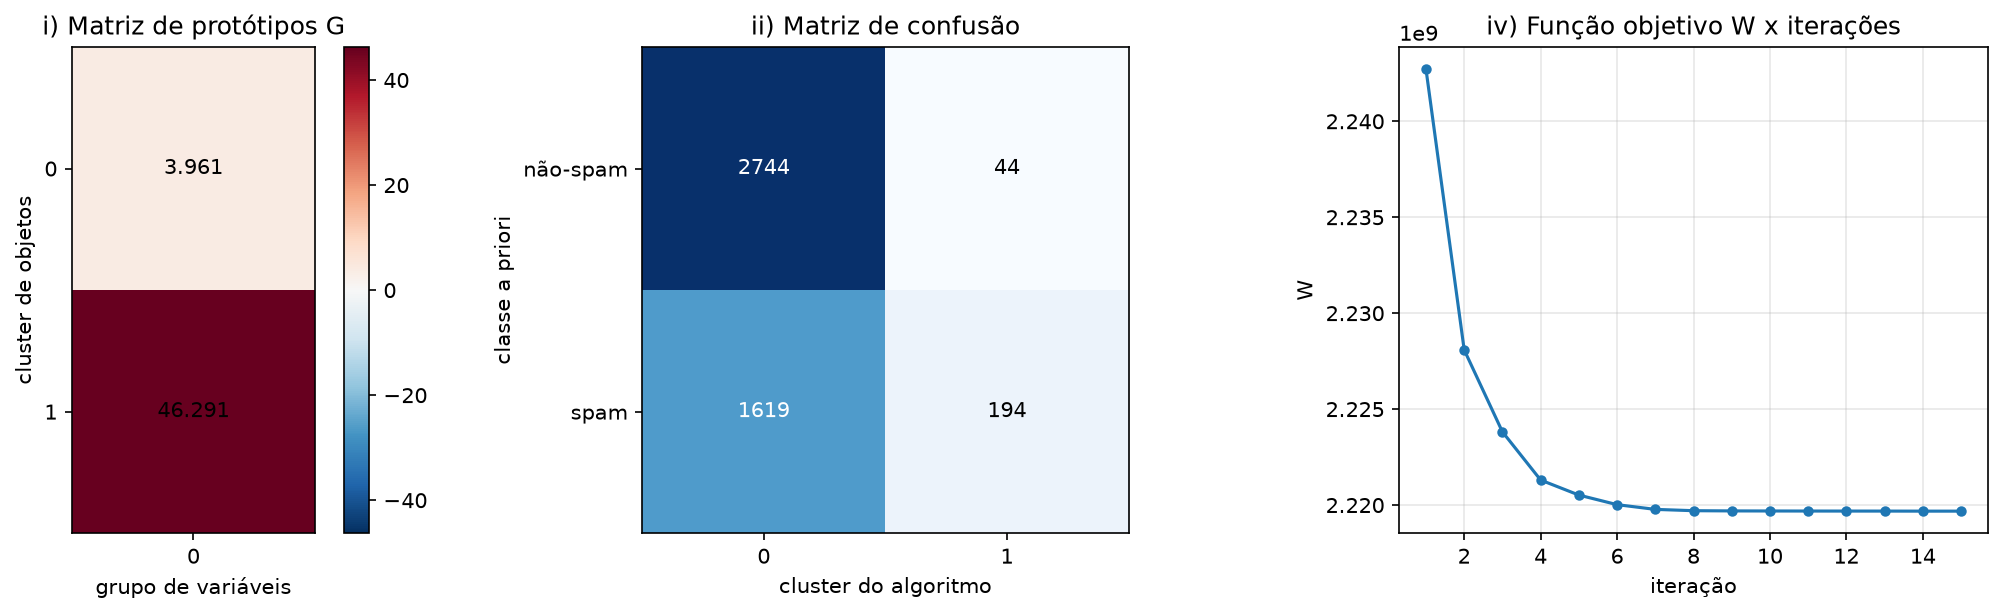
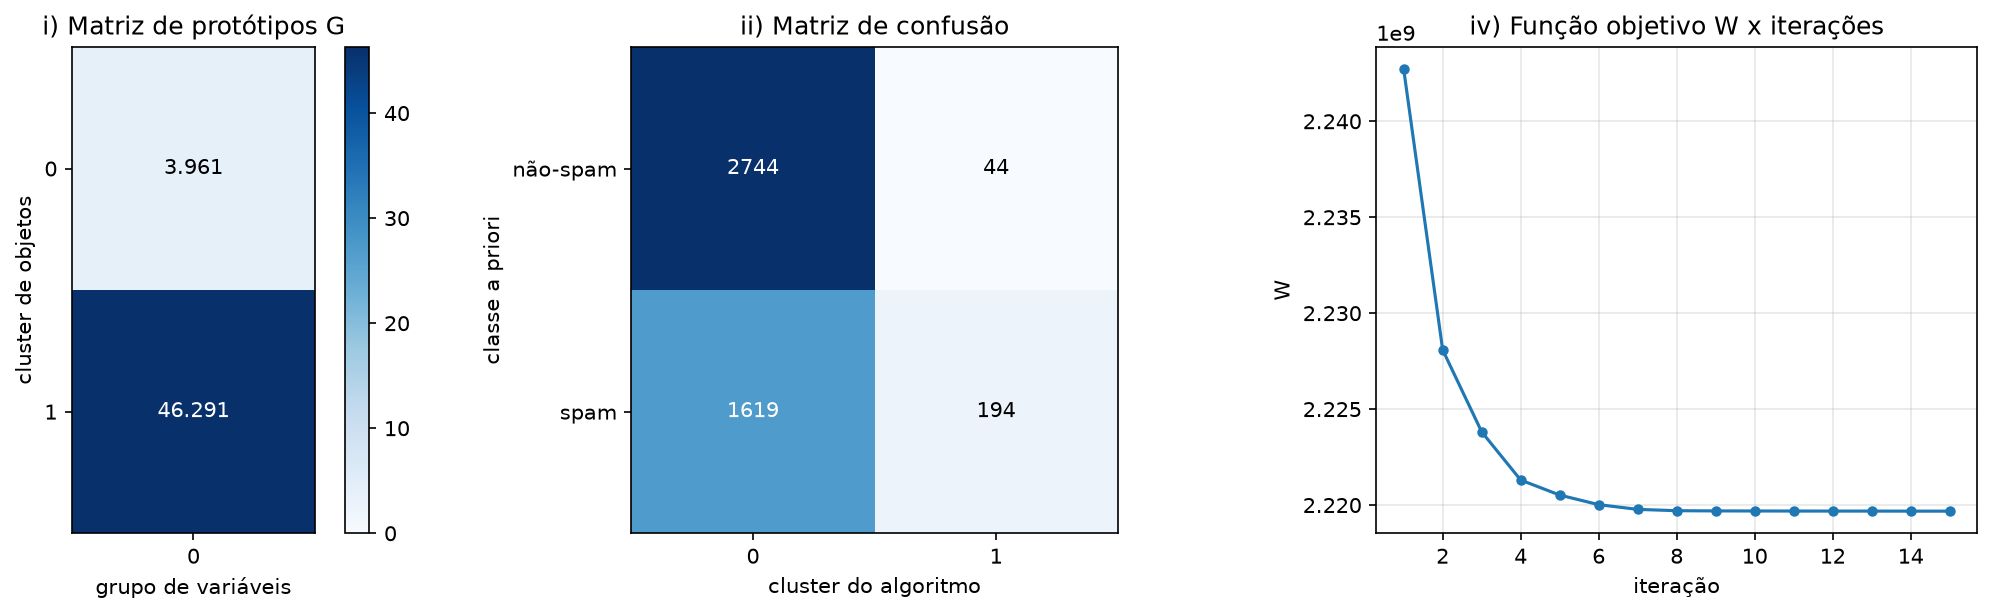
Ajustes finais v1

diff --git a/src/q2/utils/plots.py b/src/q2/utils/plots.py
@@ -393,17 +393,26 @@ def plot_curva_aprendizagem(curva, indice=3, arquivo='q2_d_curva_aprendizagem'):
 
     fig, axs = plt.subplots(1, len(nomes), figsize=(3.3 * len(nomes), 3.9),
                             sharey=True)
+    # faixa do eixo y (compartilhado), para saber quando os rótulos colidem
+    todos = np.concatenate([curva[c][n][:, indice] for c in ('treino', 'teste')
+                            for n in nomes])
+    perto = 0.05 * (todos.max() - todos.min())
+
     for ax, n in zip(axs, nomes):
         tr = curva['treino'][n][:, indice]
         te = curva['teste'][n][:, indice]
         ax.fill_between(x, te, tr, color=cores[n], alpha=0.12, lw=0)
         ax.plot(x, tr, '--', color=cores[n], lw=2)
         ax.plot(x, te, '-', color=cores[n], lw=2, marker='o', ms=3.5)
-        # rótulos diretos no fim das linhas
-        ax.annotate('treino', (x[-1], tr[-1]), xytext=(4, 0),
+        # rótulos diretos no fim das linhas; se os pontos finais estão muito
+        # próximos, afasta o de cima para cima e o de baixo para baixo
+        dy_tr = dy_te = 0
+        if abs(tr[-1] - te[-1]) < perto:
+            dy_tr, dy_te = (6, -6) if tr[-1] >= te[-1] else (-6, 6)
+        ax.annotate('treino', (x[-1], tr[-1]), xytext=(4, dy_tr),
                     textcoords='offset points', va='center', fontsize=8.5,
                     color=TINTA_2)
-        ax.annotate('teste', (x[-1], te[-1]), xytext=(4, 0),
+        ax.annotate('teste', (x[-1], te[-1]), xytext=(4, dy_te),
                     textcoords='offset points', va='center', fontsize=8.5,
                     color=TINTA_2)
         ax.set_title(n)

diff --git a/src/q1/plots.py b/src/q1/plots.py
@@ -63,7 +63,8 @@ def plot_silhueta_objetos(resultados, X, par, matriz='Xz'):
     plt.axvline(0, color="k", lw=0.8)
     plt.xlabel("s(i)"); plt.yticks([])
     plt.title(f"Silhueta por objeto — par ({K},{H}) — {matriz}")
-    plt.legend(fontsize=8)
+    # legenda fora do eixo: dentro dele cobria a faixa do cluster pequeno
+    plt.legend(fontsize=8, loc="upper left", bbox_to_anchor=(1.01, 1))
 
     _finalizar(fig, f'q1_silhueta_objetos_{K}x{H}_{matriz}')
 
@@ -93,11 +94,19 @@ def resultado_final(resultados, y, par, matriz='Xz'):
 
     fig, ax = plt.subplots(1, 3, figsize=(15, 4.2))
 
-    lim = np.abs(G).max()
-    im = ax[0].imshow(G, cmap="RdBu_r", vmin=-lim, vmax=lim)
+    # dados crus: G só tem valores >= 0, então a escala é sequencial (0 = claro);
+    # com valores negativos (dados padronizados), divergente centrada em 0
+    if G.min() >= 0:
+        im = ax[0].imshow(G, cmap="Blues", vmin=0, vmax=G.max())
+        escuro = lambda v: v > G.max() / 2
+    else:
+        lim = np.abs(G).max()
+        im = ax[0].imshow(G, cmap="RdBu_r", vmin=-lim, vmax=lim)
+        escuro = lambda v: abs(v) > lim / 2
     for k in range(G.shape[0]):
         for h in range(G.shape[1]):
-            ax[0].text(h, k, f"{G[k,h]:.3f}", ha="center", va="center")
+            ax[0].text(h, k, f"{G[k,h]:.3f}", ha="center", va="center",
+                       color="white" if escuro(G[k, h]) else "black")
     ax[0].set_title("i) Matriz de protótipos G")
     ax[0].set_xlabel("grupo de variáveis"); ax[0].set_ylabel("cluster de objetos")
     ax[0].set_xticks(range(G.shape[1])); ax[0].set_yticks(range(G.shape[0]))

diff --git a/src/q1/main.py b/src/q1/main.py
@@ -15,7 +15,7 @@ DADOS = RAIZ / 'data'
 RESULTADOS = Path(__file__).resolve().parent / 'results'
 RESULTADOS.mkdir(exist_ok=True)
 
-RODAR = True    # True: roda as 9 x 100 execuções. False: carrega de results/
+RODAR = False    # True: roda as 9 x 100 execuções. False: carrega de results/
 
 nomes = []
 with open(DADOS / 'spambase.names') as arq:
